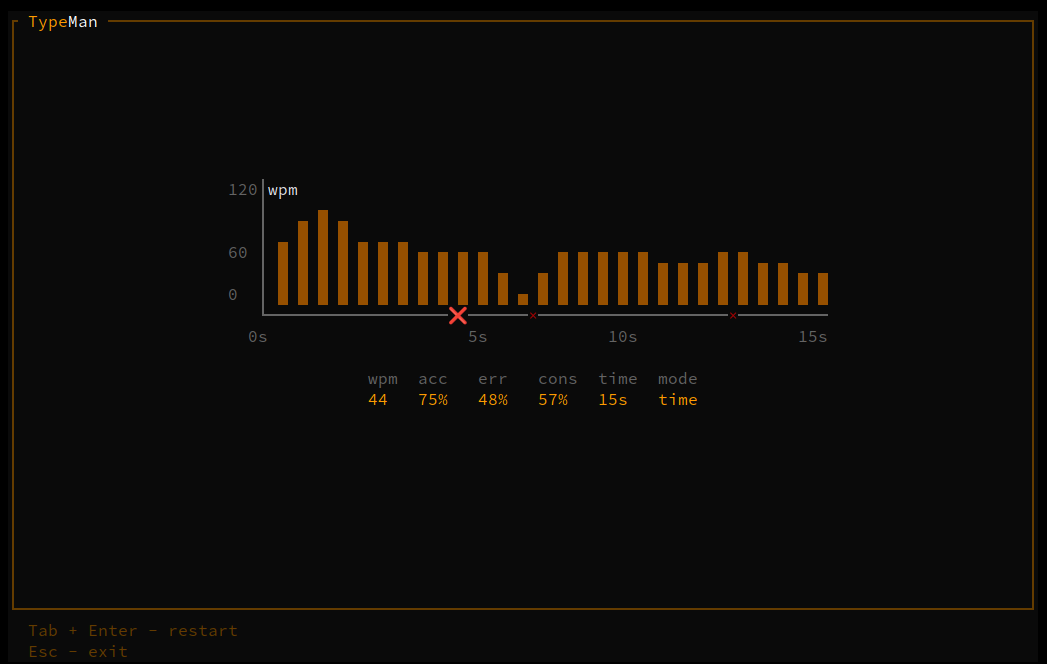
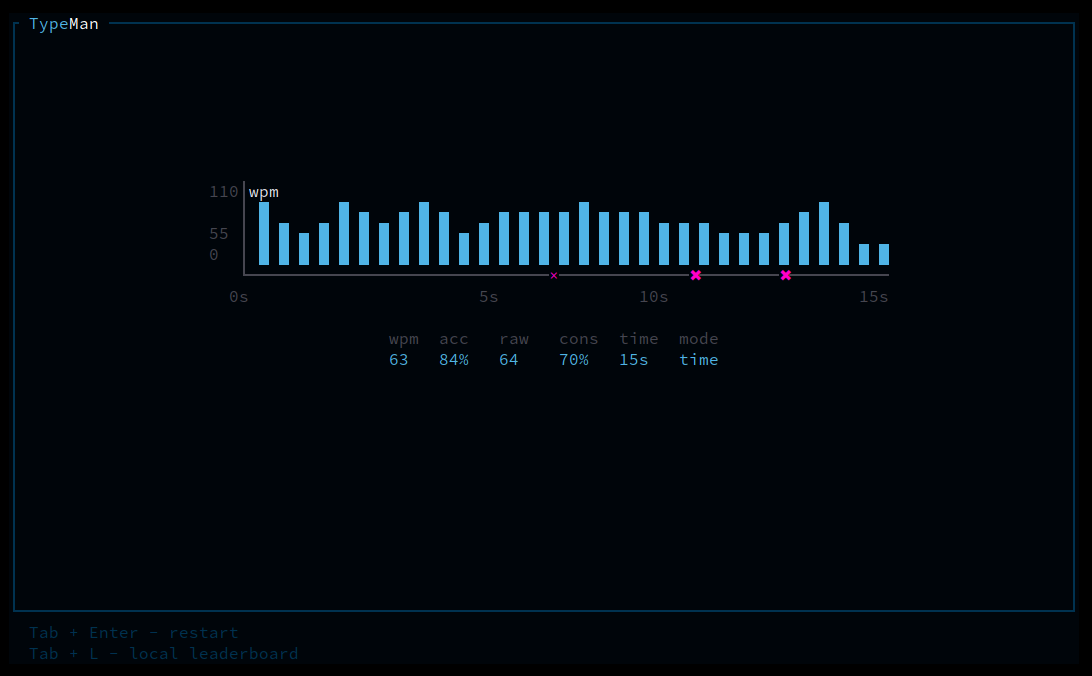
saving config works in gui, minor ui changes

diff --git a/src/ui/gui/main.rs b/src/ui/gui/main.rs
@@ -9,11 +9,11 @@ use std::thread;
 use crate::utils;
 use crate::ui::gui::results;
 use crate::ui::gui::config::{self, reset_game_state};
-use crate::language::Language;
 use crate::color_scheme::ColorScheme;
 use crate::ui::gui::practice as gui_practice;
 use crate::practice::{self, TYPING_LEVELS};
 use crate::ui::gui::popup::{Popup, PopupContent};
+use crate::config::AppConfig;
 
 
 pub const MAIN_COLOR: macroquad::color::Color = macroquad::color::Color::from_rgba(255, 155, 0, 255);
@@ -26,12 +26,19 @@ const DEJAVU: &[u8] =
 
 
 pub async fn gui_main_async() {
-    let mut punctuation = false;
-    let mut numbers = false;
-    let mut quote = false;
-    let mut time_mode = true;
-    let mut word_mode = false;
-    let mut language = Language::default();
+    let mut app_config = AppConfig::load();
+
+    let mut punctuation = app_config.punctuation;
+    let mut numbers = app_config.numbers;
+    let mut quote = app_config.quote;
+    let mut time_mode = app_config.time_mode;
+    let mut word_mode = app_config.word_mode;
+    let mut language = app_config.language;
+    let mut practice_mode = app_config.practice_mode;
+
+    if !time_mode && !word_mode && !quote && !practice_mode {
+        time_mode = true;
+    }
 
     let font = load_ttf_font_from_bytes(ROBOTO_MONO).unwrap();
     let title_font = load_ttf_font_from_bytes(ROBOTO_MONO).unwrap();
@@ -39,7 +46,7 @@ pub async fn gui_main_async() {
 
     let top_words = 500;
     let word_list = utils::read_first_n_words(top_words as usize, language);
-    let mut batch_size = 50;
+    let mut batch_size = app_config.batch_size;
 
     let mut reference = utils::get_reference(punctuation, false, &word_list, batch_size);
 
@@ -48,7 +55,7 @@ pub async fn gui_main_async() {
     let mut pos1: usize = 0;
     let mut timer = time::Duration::from_secs(0);
     let mut start_time: Instant = Instant::now();
-    let mut test_time = 30.0;
+    let mut test_time = app_config.test_time as f32;
     let mut game_started = false;
     let mut game_over = false;
 
@@ -67,9 +74,8 @@ pub async fn gui_main_async() {
     let mut selected_config: String = "time".to_string();
 
     let mut practice_menu = false;
-    let mut practice_mode = false;
     let mut scroll_offset: f32 = 0.0;
-    let mut selected_practice_level: Option<usize> = None;
+    let mut selected_practice_level: Option<usize> = Some(app_config.selected_level);
     let mut saved_results = false;
 
     let mut lang_popup = Popup::new(PopupContent::Language);
@@ -77,7 +83,7 @@ pub async fn gui_main_async() {
 
     let mut theme_popup = Popup::new(PopupContent::ColorScheme);
     let mut theme_popup_recently_closed = false;
-    let mut color_scheme = ColorScheme::Default;
+    let mut color_scheme = app_config.color_scheme;
 
     let words: Vec<&str> = reference.split_whitespace().collect();
     let average_word_length: f64 = if !words.is_empty() {
@@ -89,7 +95,7 @@ pub async fn gui_main_async() {
     loop {
         clear_background(color_scheme.bg_color_mq());
         let mut max_width = f32::min(if screen_height() > screen_width() {screen_width() * 0.9} else {screen_width() * 0.7}, 1600.0);
-        if screen_width() < 1000.0 || screen_height() < 600.0 {
+        if screen_width() < 1300.0 || screen_height() < 900.0 {
             max_width = 0.85 * screen_width();
         }
         let font_size = if screen_height() > 2000.0 || screen_width() > 3800.0 {
@@ -118,7 +124,7 @@ pub async fn gui_main_async() {
         if !game_over && !practice_menu {                    
             let total_height = lines.len() as f32 * font_size * 1.2;
             let start_y = screen_height() / 2.0 - total_height / 2.0 + font_size;
-            let start_x = screen_width() / 2.0 - max_width / 2.0;
+            let start_x = screen_width() / 2.0 - max_width / 2.0 + 20.0;
             let title_y = screen_height() / 7.5;
 
             draw_reference_text(
@@ -151,7 +157,7 @@ pub async fn gui_main_async() {
                 &mut reference,
                 &mut test_time,
                 &mut batch_size,
-                screen_width() / 2.0 - max_width / 2.0,
+                start_x,
                 &mut speed_per_second,
                 &mut last_recorded_time,
                 &mut words_done,
@@ -252,7 +258,7 @@ pub async fn gui_main_async() {
             if !game_started {
                 let blink_interval = 0.5;
                 let show_cursor = ((get_time() / blink_interval) as i32) % 2 == 0;
-                if show_cursor && !game_over {
+                if show_cursor && !game_over && !config_opened {
                     draw_cursor(calc_pos_x, calc_pos_y, start_x, start_y, line_h, char_w, &color_scheme);
                 }
             } else {
@@ -376,6 +382,21 @@ pub async fn gui_main_async() {
             if lang_popup.visible {
                 lang_popup.visible = false;
             } else {
+                app_config = AppConfig {
+                    punctuation: punctuation,
+                    numbers: numbers,
+                    time_mode: time_mode,
+                    word_mode: word_mode,
+                    quote: quote,
+                    practice_mode: practice_mode,
+                    batch_size: batch_size,
+                    test_time: test_time,
+                    selected_level: selected_practice_level.unwrap_or(0),
+                    language: language,
+                    color_scheme: color_scheme,
+                };
+                let _ = app_config.save();
+
                 break;
             }
         }
@@ -713,13 +734,11 @@ fn draw_reference_text(
     font_size: f32,
     start_x: f32,
     start_y: f32,
-    lang_popup_open: bool,
+    _lang_popup_open: bool,
     color_scheme: &ColorScheme,
 ) {
     let mut pos = 0;
     let mut pos_y = 0.0;
-
-    let alpha = if lang_popup_open { 100 } else { 255 };
 
     for line in lines.iter() {
         let mut pos_x = 0;
@@ -739,7 +758,7 @@ fn draw_reference_text(
                 if char == ' ' {
                     curr_char = '_';
                 }
-                macroquad::color::Color::from_rgba(200, 30, 30, alpha)
+                color_scheme.incorrect_color_mq()
             };
             draw_text_ex(
                 &curr_char.to_string(),
@@ -749,6 +768,7 @@ fn draw_reference_text(
                     font,
                     font_size: font_size as u16,
                     color,
+                    font_scale: 1.0,
                     ..Default::default()
                 },
             );

diff --git a/src/color_scheme.rs b/src/color_scheme.rs
@@ -69,7 +69,7 @@ impl ColorScheme {
         )
     }
 
-    fw_colors!(border_color, ref_color, bg_color, main_color, dimmer_main, text_color, chart_color, correct_color, corrected_color);
+    fw_colors!(border_color, ref_color, bg_color, main_color, dimmer_main, text_color, chart_color, correct_color, corrected_color, incorrect_color);
 
     pub fn border_color(&self) -> MyColor {
         match self {
@@ -90,9 +90,9 @@ impl ColorScheme {
             ColorScheme::Default => MyColor::new(100, 100, 100, 255),
             ColorScheme::Dark => MyColor::new(80, 80, 80, 255),
             ColorScheme::Light => MyColor::new(120, 120, 120, 255),
-            ColorScheme::Monochrome => MyColor::new(128, 128, 128, 255),
+            ColorScheme::Monochrome => MyColor::new(80, 80, 80, 255),
             ColorScheme::Ocean => MyColor::new(100, 150, 200, 255),
-            ColorScheme::OceanDark => MyColor::new(70, 100, 130, 255),
+            ColorScheme::OceanDark => MyColor::new(70, 70, 80, 255),
             ColorScheme::Forest => MyColor::new(100, 150, 100, 255),
             ColorScheme::ForestDark => MyColor::new(70, 80, 70, 255),
             ColorScheme::Pink => MyColor::new(80, 70, 70, 255),
@@ -143,15 +143,15 @@ impl ColorScheme {
 
     pub fn text_color(&self) -> MyColor {
         match self {
-            ColorScheme::Default => MyColor::new(200, 255, 255, 255),
-            ColorScheme::Dark => MyColor::new(200, 255, 255, 255),
+            ColorScheme::Default => MyColor::new(200, 200, 200, 255),
+            ColorScheme::Dark => MyColor::new(200, 200, 200, 255),
             ColorScheme::Light => MyColor::new(0, 0, 0, 255),
-            ColorScheme::Monochrome => MyColor::new(200, 255, 255, 255),
+            ColorScheme::Monochrome => MyColor::new(200, 200, 200, 255),
             ColorScheme::Ocean => MyColor::new(200, 230, 255, 255),
             ColorScheme::OceanDark => MyColor::new(180, 220, 255, 255),
             ColorScheme::Forest => MyColor::new(200, 255, 200, 255),
             ColorScheme::ForestDark => MyColor::new(180, 255, 180, 255),
-            ColorScheme::Pink => MyColor::new(255, 182, 193, 255),
+            ColorScheme::Pink => MyColor::new(200, 200, 200, 255),
         }
     }
 
@@ -189,13 +189,28 @@ impl ColorScheme {
             ColorScheme::Dark => MyColor::new(100, 60, 0, 255),
             ColorScheme::Light => MyColor::new(150, 100, 0, 255),
             ColorScheme::Monochrome => MyColor::new(200, 50, 50, 255),
-            ColorScheme::Ocean => MyColor::new(255, 100, 150, 255),
-            ColorScheme::OceanDark => MyColor::new(255, 100, 200, 255),
+            ColorScheme::Ocean => MyColor::new(180, 100, 255, 255),
+            ColorScheme::OceanDark => MyColor::new(180, 100, 255, 255),
             ColorScheme::Forest => MyColor::new(255, 100, 100, 255),
-            ColorScheme::ForestDark => MyColor::new(255, 100, 100, 255),
+            ColorScheme::ForestDark => MyColor::new(180, 100, 0, 255),
             ColorScheme::Pink => MyColor::new(255, 100, 100, 255),
         }
     }
+
+    pub fn incorrect_color(&self) -> MyColor {
+        match self {
+            ColorScheme::Default => MyColor::new(200, 30, 30, 255),
+            ColorScheme::Dark => MyColor::new(200, 30, 30, 255),
+            ColorScheme::Light => MyColor::new(200, 30, 30, 255),
+            ColorScheme::Monochrome => MyColor::new(200, 30, 30, 255),
+            ColorScheme::Ocean => MyColor::new(255, 0, 200, 255),
+            ColorScheme::OceanDark => MyColor::new(255, 0, 200, 255),
+            ColorScheme::Forest => MyColor::new(200, 30, 30, 255),
+            ColorScheme::ForestDark => MyColor::new(150, 30, 30, 255),
+            ColorScheme::Pink => MyColor::new(255, 30, 30, 255),
+        }
+    }
+
 }
 
 impl Default for ColorScheme {

diff --git a/src/ui/gui/config.rs b/src/ui/gui/config.rs
@@ -13,7 +13,7 @@ fn draw_toggle_button(
     x: f32,
     y: f32,
     btn_padding: f32,
-    label: &str,
+    display_name: &str,
     font: &Option<Font>,
     is_active: bool,
     visible: bool,
@@ -26,7 +26,7 @@ fn draw_toggle_button(
     }
     let padding = font_size as f32 * 0.5;
         
-    let text_dims = measure_text(label, Some(font.as_ref().unwrap()), font_size, 1.0);
+    let text_dims = measure_text(display_name, Some(font.as_ref().unwrap()), font_size, 1.0);
     let btn_width = text_dims.width + btn_padding * 2.0;
     let btn_height = measure_text("t", font.as_ref(), font_size, 1.0).height + padding * 2.0;
 
@@ -45,7 +45,7 @@ fn draw_toggle_button(
         bg_color = color_scheme.border_color_mq();
     }
 
-    let font_size: u16 = if label == "|" {
+    let font_size: u16 = if display_name == "|" {
         (font_size as f32 * 1.5) as u16
     } else {
         font_size
@@ -55,7 +55,7 @@ fn draw_toggle_button(
     let btn_x = x;
     utils::draw_rounded_rect(btn_x, y, btn_width, btn_height, corner_radius, bg_color);
     draw_text_ex(
-        label,
+        display_name,
         x + btn_padding,
         y + btn_height - padding,
         TextParams {
@@ -67,7 +67,7 @@ fn draw_toggle_button(
         },
     );
 
-    (clicked, hovered, btn_width + btn_padding * 2.0)
+    (clicked, hovered, btn_width)
 }
 
 pub fn update_game_state(
@@ -169,18 +169,18 @@ pub fn handle_settings_buttons(
 ) -> bool {
     let btn_y = screen_height() / 5.0;
     let btn_padding = if screen_width() > 800.0 {
-        font_size as f32 * 0.5
+        font_size as f32 * 0.7
     } else {
-        font_size as f32 * 0.25
+        font_size as f32 * 0.4
     };
     let divider = true;
     let mut total_width = 0.0;
 
     let mut button_states = vec![
-        ("punctuation", "! punctuation", *punctuation, !*quote && !*practice_mode),
-        ("numbers", "# numbers", *numbers, !*quote && !*practice_mode),
+        ("punctuation", if screen_width() > screen_height() && screen_width() > 1500.0 { "! punctuation" } else { "! punct" }, *punctuation, !*quote && !*practice_mode),
+        ("numbers", if screen_width() > screen_height() && screen_width() > 1500.0 { "# numbers" } else { "# num" }, *numbers, !*quote && !*practice_mode),
         ("|", "|", divider, true),
-        ("language", "language", lang_popup.visible, true),
+        ("language", if screen_width() > screen_height() && screen_width() > 1500.0 { "language" } else { "lang" }, lang_popup.visible, true),
         ("theme", "theme", theme_popup.visible, true),
         ("|", "|", divider, true),
         ("time", "time", *time_mode, true),
@@ -282,7 +282,7 @@ pub fn handle_settings_buttons(
 
     let mut any_button_hovered = false;
 
-    for (label, _display_name, state_val, visible) in button_states.iter_mut() {
+    for (label, display_name, state_val, visible) in button_states.iter_mut() {
         let x = start_x + total_width;
         let is_active = *state_val;
         
@@ -290,7 +290,7 @@ pub fn handle_settings_buttons(
             x, 
             btn_y,
             btn_padding,
-            label,
+            display_name,
             font, 
             is_active, 
             *visible,

diff --git a/src/ui/tui/ui.rs b/src/ui/tui/ui.rs
@@ -539,7 +539,7 @@ fn render_results(frame: &mut Frame, area: Rect, app: &App, color_scheme: ColorS
                     ctx.print(
                         (i as f64 + 0.8) * (smoothed_speeds.len() as f64 / test_time as f64),
                         1.0,
-                        Span::styled(cross, Style::default().fg(Color::Red).bg(bg_color)),
+                        Span::styled(cross, Style::default().fg(color_scheme.incorrect_color_tui()).bg(bg_color)),
                     );
                 }
             }
@@ -698,6 +698,7 @@ fn create_colored_lines<'a>(app: &App, max_ref_width: usize, color_scheme: Color
     let ref_color = color_scheme.ref_color_tui();
     let correct_color = color_scheme.correct_color_tui();
     let corrected_color = color_scheme.corrected_color_tui();
+    let incorrect_color = color_scheme.incorrect_color_tui();
     let mut fg_colors: Vec<Color> = vec![ref_color; app.reference.chars().count()];
     let mut bg_colors: Vec<Color> = vec![bg_color; app.reference.chars().count()];
 
@@ -712,7 +713,7 @@ fn create_colored_lines<'a>(app: &App, max_ref_width: usize, color_scheme: Color
         } else if app.is_correct[i] == 1 {
             fg_colors[i] = corrected_color;
         } else if app.is_correct[i] == -1 {
-            fg_colors[i] = Color::Rgb(255, 0, 0);
+            fg_colors[i] = incorrect_color;
         } else {
             fg_colors[i] = ref_color;
         }

diff --git a/src/ui/gui/results.rs b/src/ui/gui/results.rs
@@ -1,7 +1,7 @@
 use std::collections::VecDeque;
 use macroquad::prelude::*;
 use eframe::egui;
-use egui::{Color32, Area, pos2};
+use egui::{Area, pos2};
 use egui_plot::{Line, Plot};
 
 use crate::utils;
@@ -555,7 +555,7 @@ fn draw_chart(points: &[[f64; 2]], chart_width: f32, chart_height: f32, chart_x:
                                             "Error",
                                             vec![[x, cross_y]]
                                         )
-                                        .color(Color32::from_rgb(255, 50, 50))
+                                        .color(ColorScheme::mq_to_color32(color_scheme.incorrect_color_mq()))
                                         .radius(size)
                                         .shape(egui_plot::MarkerShape::Cross);
                                         
